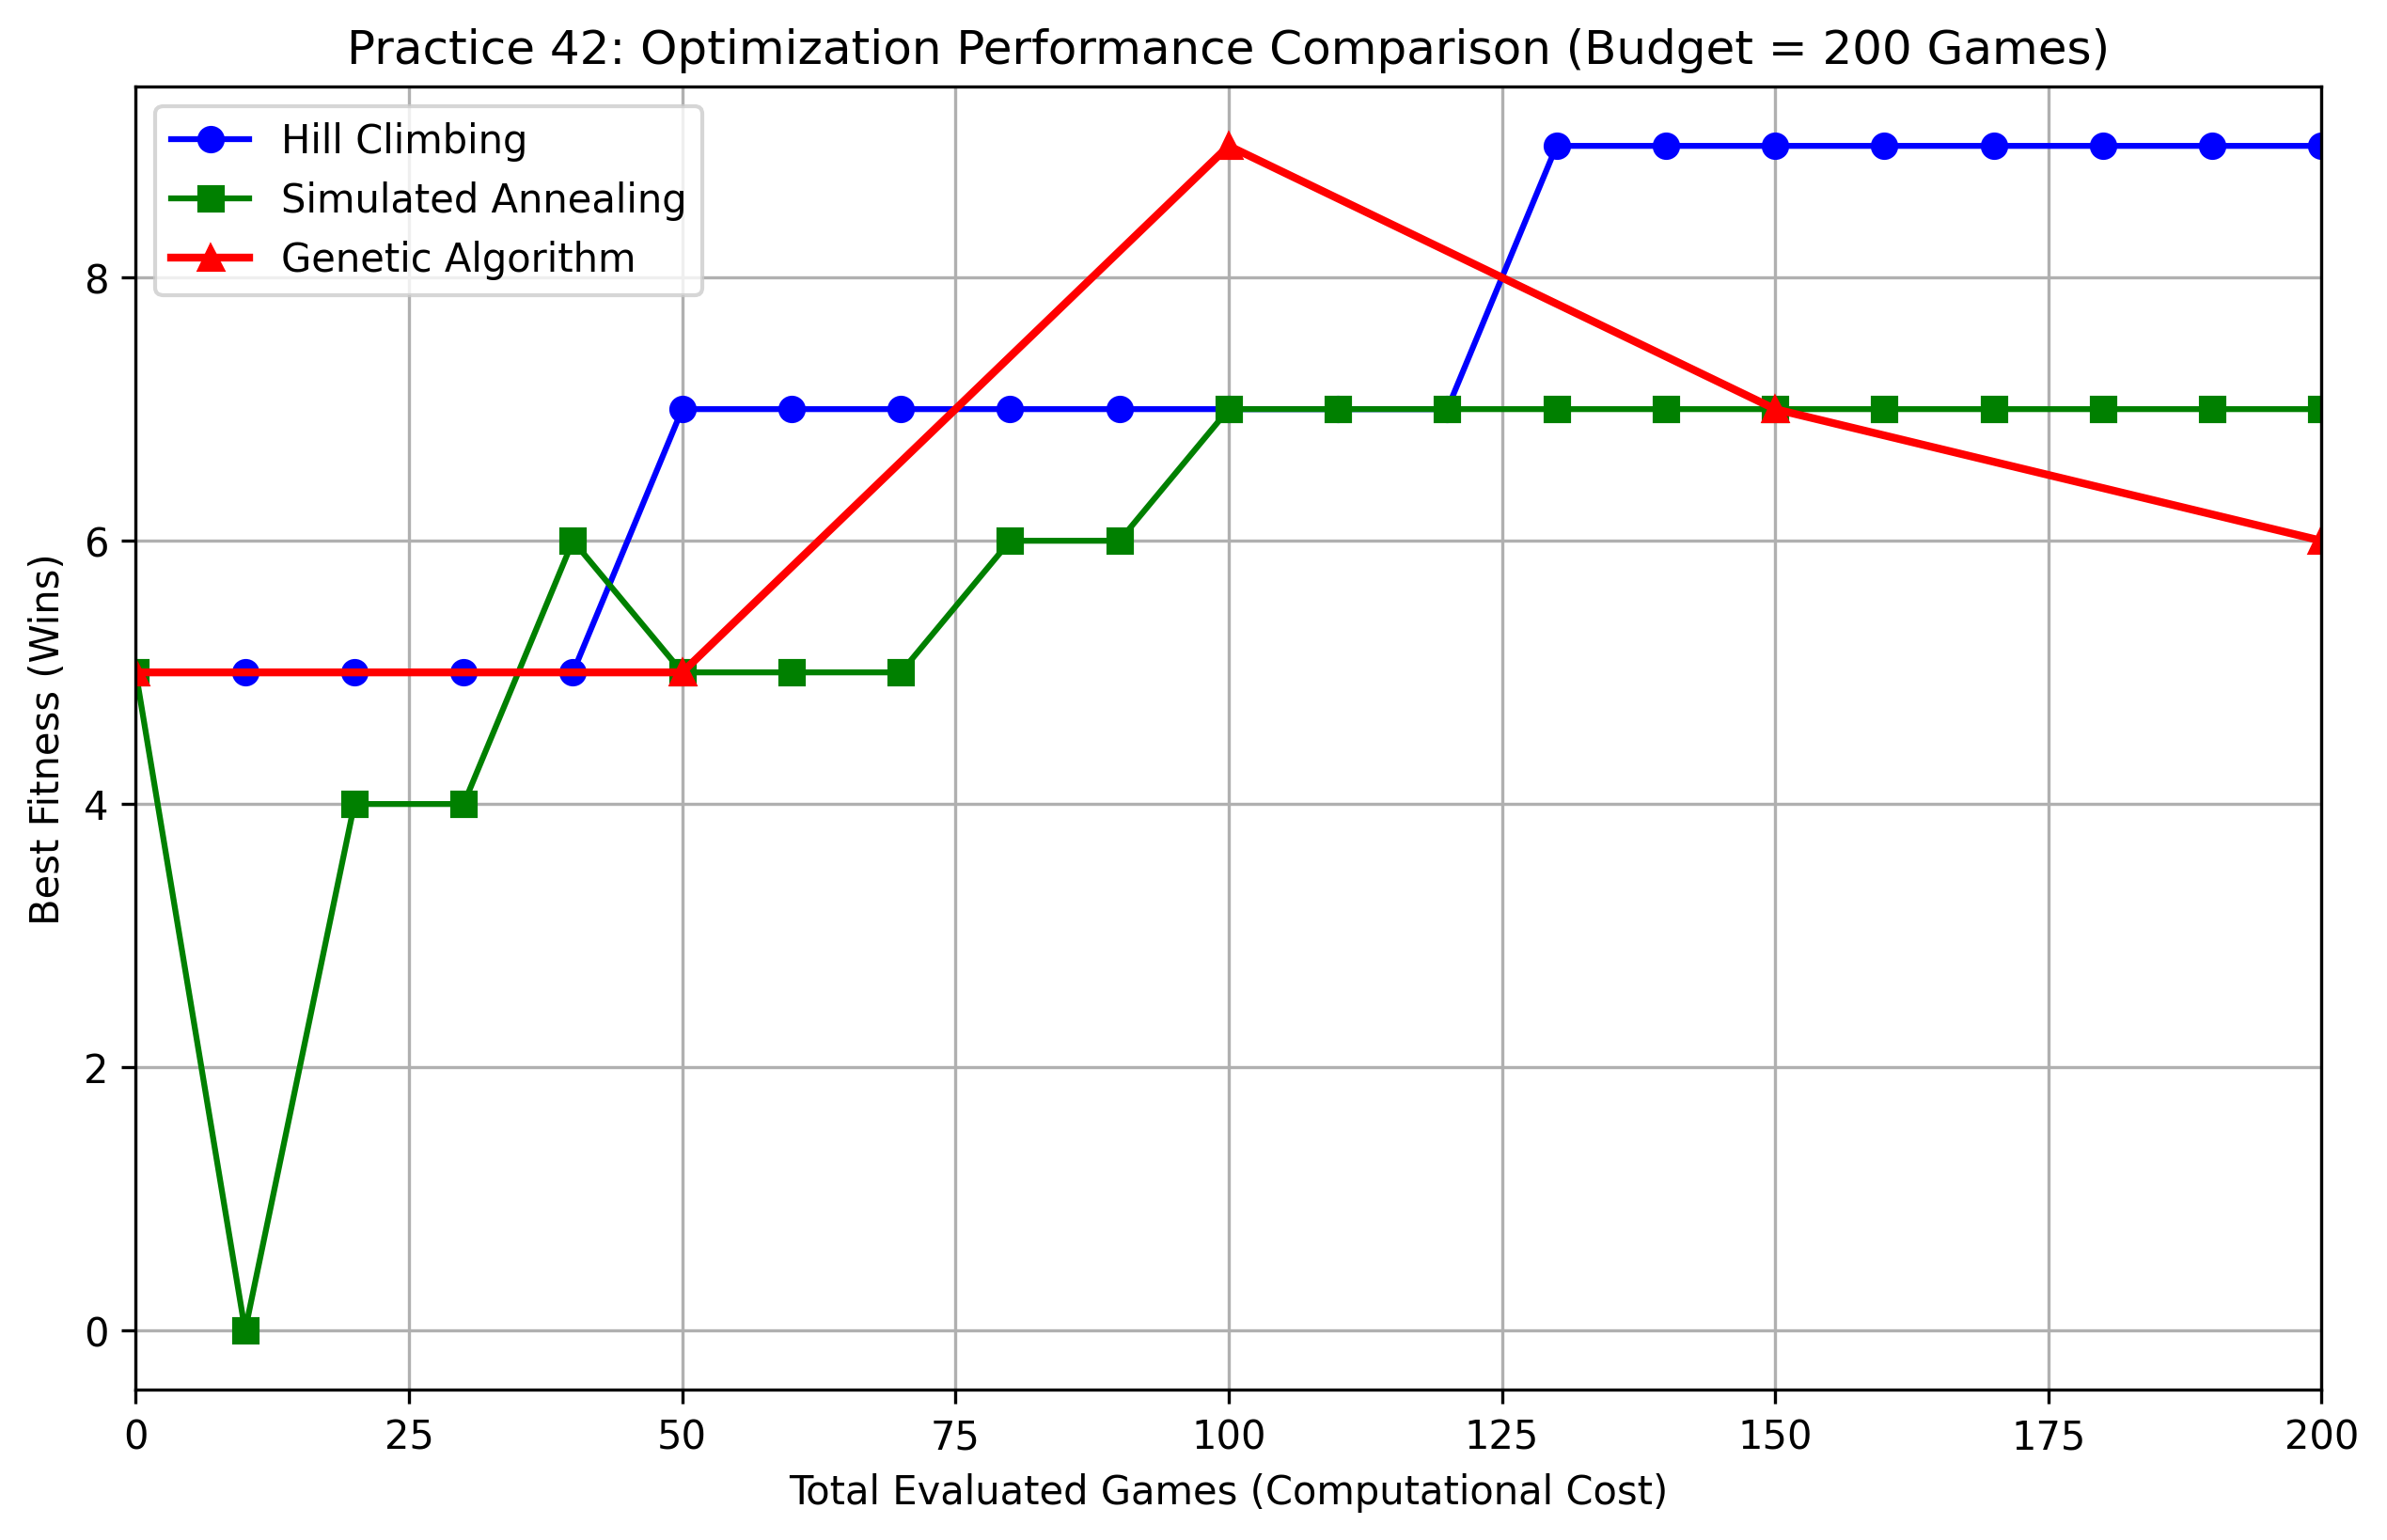
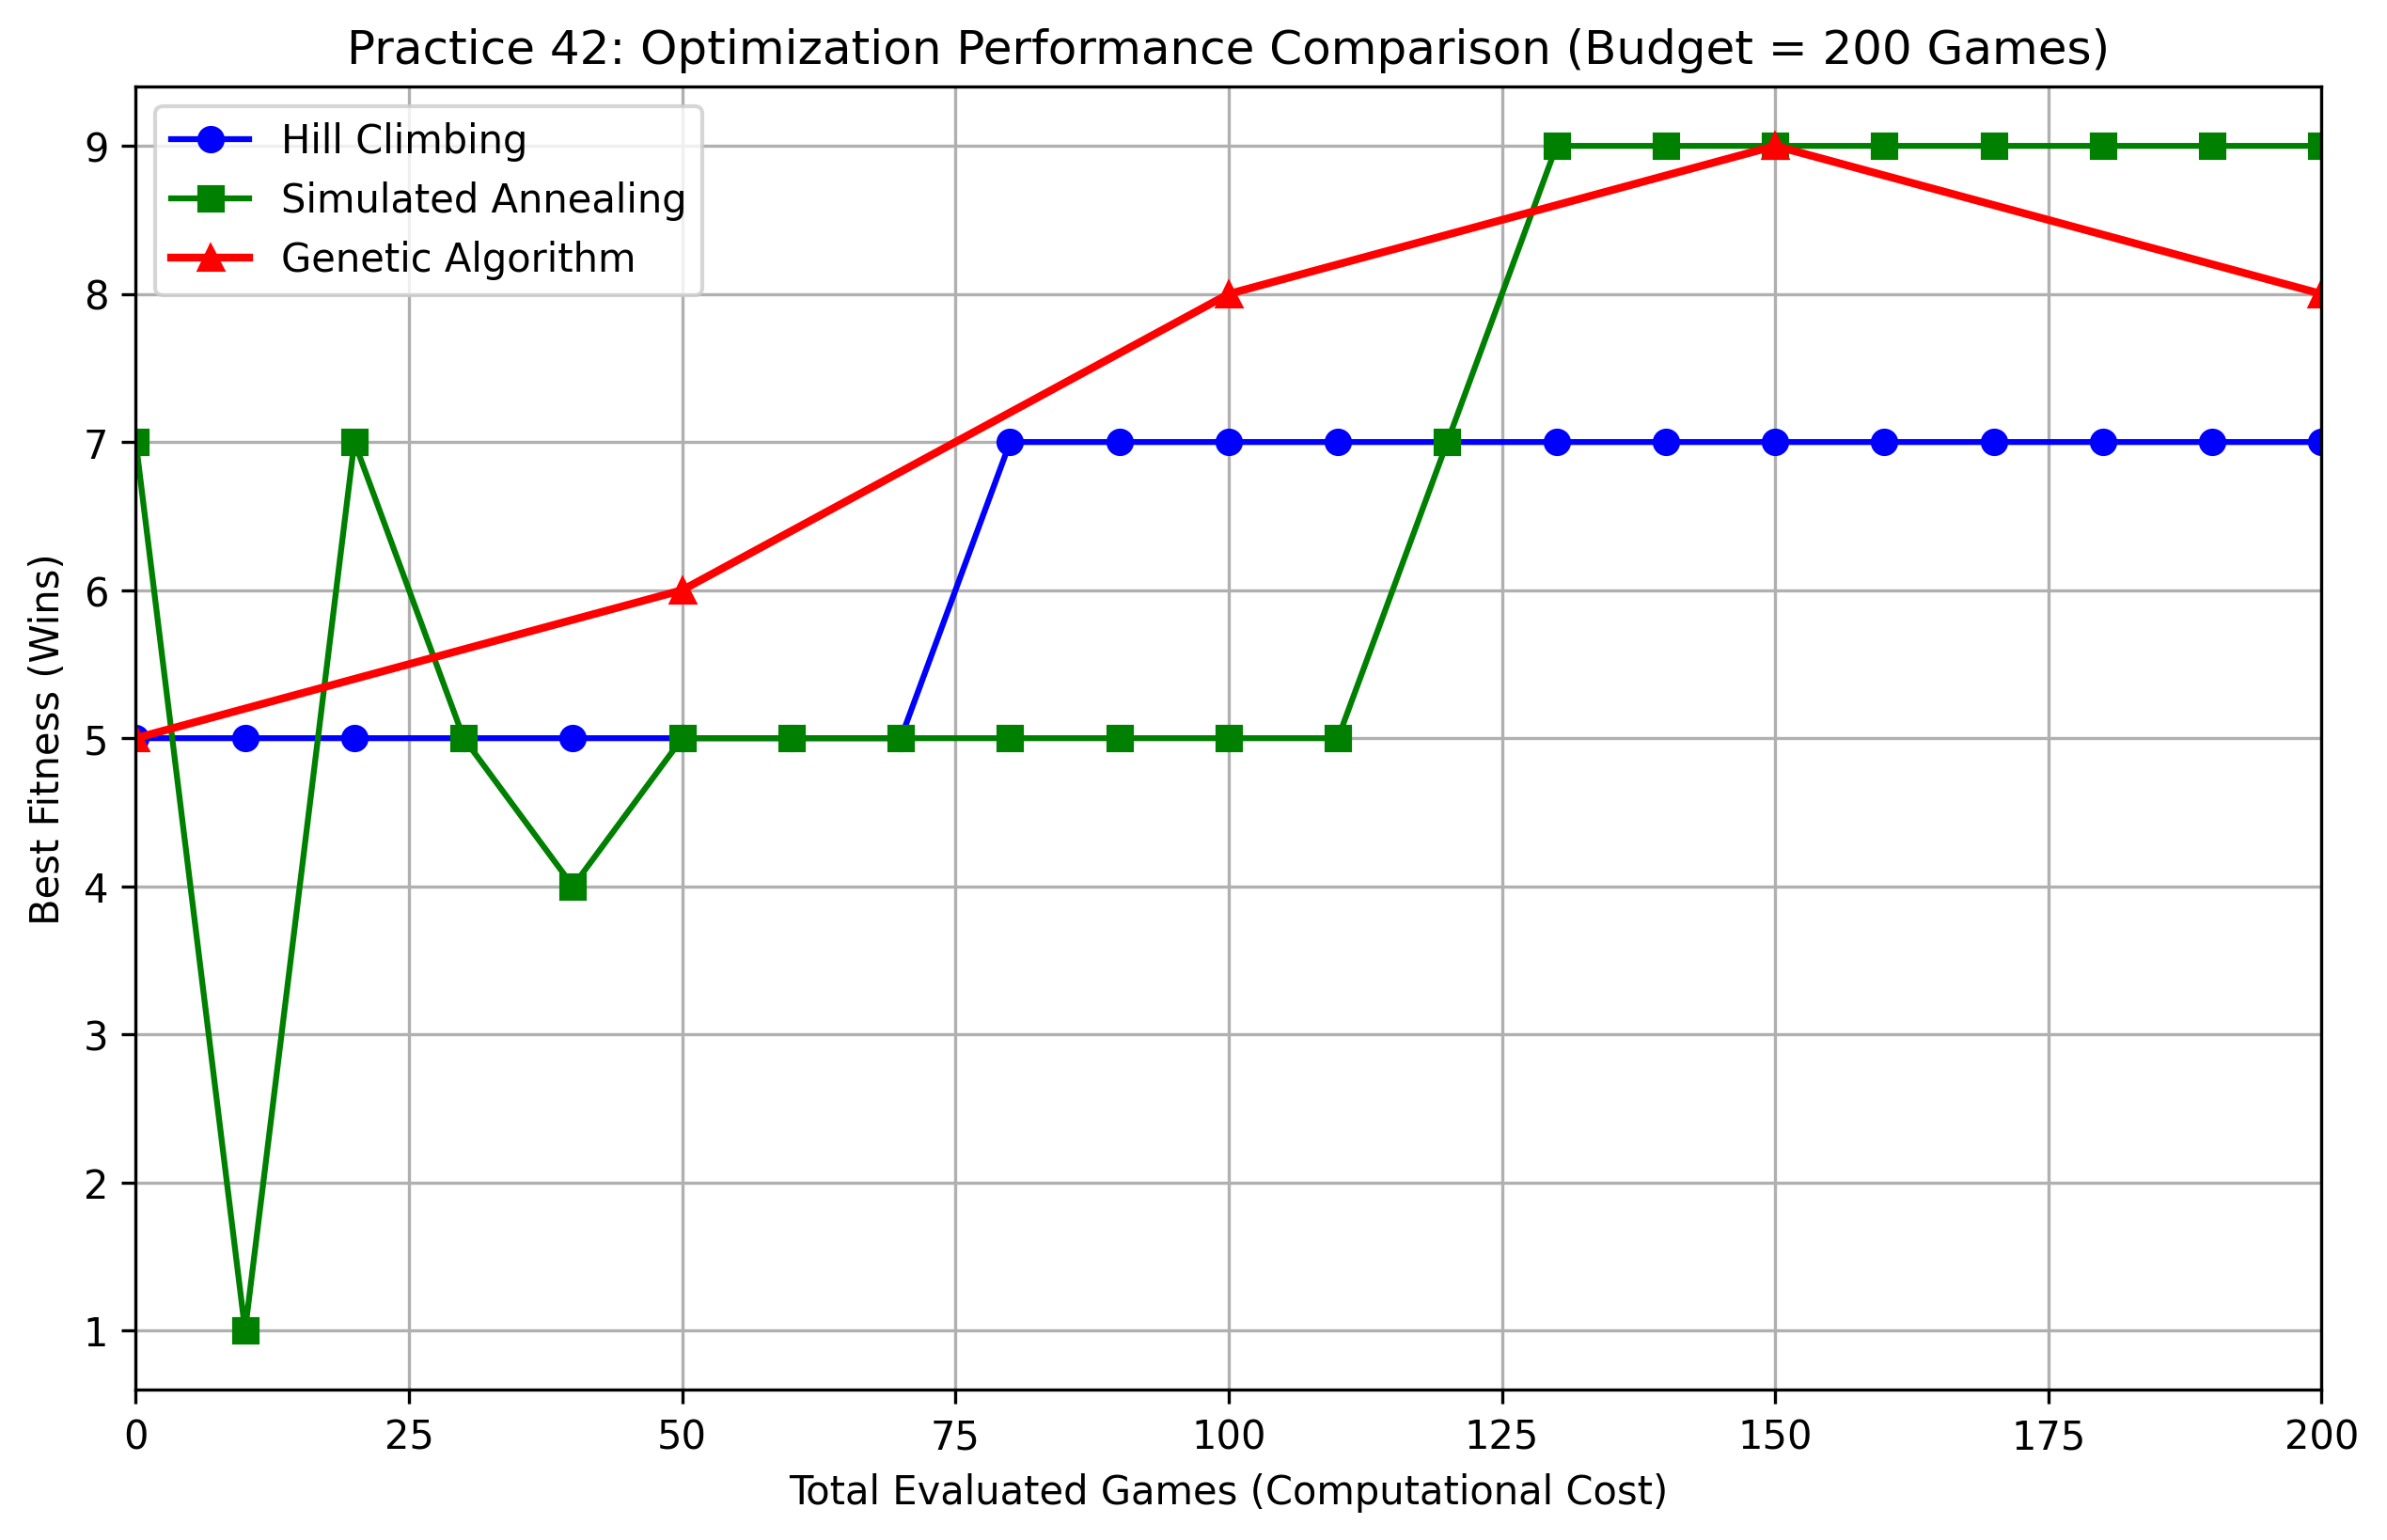
g43

diff --git a/src/reversi_2420204.py b/src/reversi_2420204.py
@@ -965,3 +965,73 @@ ga_weight_str = f"[{', '.join([f'{w:.2f}' for w in ga_best_weight])}]"
 print(f"{'Genetic Algorithm':<25} | {ga_best_fit:<12d} | {ga_weight_str:<30}")
 
 print("=" * 80)
+
+
+print("\n" + "=" * 40)
+print(" 練習43：考察データの収集シミュレーション")
+print("=" * 40)
+
+# 1. 検証のための「未知の強敵（テストプレイヤー）」を用意
+# 基準AI（ベースライン）とは全く異なる、位置点・確定石を極端に重視した尖った重み
+test_opponent_weight = [10.0, 5.0, 300.0, 1000.0]
+eval_test_opponent = make_eval_node(test_opponent_weight)
+
+# 前のステップで得られた各アルゴリズムの最良重み（もし未実行なら自動代入）
+# ※変数名が異なる場合は適宜置き換えてください
+w_hc = best_w  # 山登り法の最終最良重み
+w_sa = best_std  # 焼きなまし法の最終最良重み
+w_ga = ga_final_step[1]  # GAの最終最良重み
+
+algorithms = {
+    "Hill Climbing": w_hc,
+    "Simulated Annealing": w_sa,
+    "Genetic Algorithm": w_ga,
+}
+
+print("\n【実験①】未知のテストプレイヤーとの対戦（過学習の検証）")
+print(
+    "※学習相手（ベースライン）以外にも汎用的に強いかを50試合（先後交代）で測定します。"
+)
+print("-" * 80)
+print(f"{'アルゴリズム':<20} | {'対テストプレイヤー勝数':<22} | {'勝率':<8}")
+print("-" * 80)
+
+test_games = 50
+for name, weight in algorithms.items():
+    eval_candidate = make_eval_node(weight)
+
+    # 汎化性能テスト
+    wins = 0
+    for i in range(test_games):
+        if i % 2 == 0:
+            winner = play_one_game(eval_candidate, eval_test_opponent, depth=2)
+            if winner == BOARD_SENTE:
+                wins += 1
+        else:
+            winner = play_one_game(eval_test_opponent, eval_candidate, depth=2)
+            if winner == BOARD_GOTE:
+                wins += 1
+
+    win_rate = (wins / test_games) * 100
+    print(f"{name:<20} | {wins:<5d} / {test_games:<14d} | {win_rate:.1f}%")
+
+print("-" * 80)
+
+
+print("\n【実験②】評価ノイズ（再現性）の検証")
+print("※同じ重みでも、ランダム要素によって勝率がどれくらいブレるかを3回再測定します。")
+print("-" * 80)
+print(
+    f"{'アルゴリズム':<20} | {'測定1 (10局)':<12} | {'測定2 (10局)':<12} | {'測定3 (10局)':<12}"
+)
+print("-" * 80)
+
+for name, weight in algorithms.items():
+    scores = []
+    for _ in range(3):
+        # 同じ条件で10ゲームの勝数を3回測定してみる
+        score = fitness(weight, baseline=initial_w, n_games=10, depth=2)
+        scores.append(score)
+    print(f"{name:<20} | {scores[0]:<12d} | {scores[1]:<12d} | {scores[2]:<12d}")
+
+print("-" * 80)